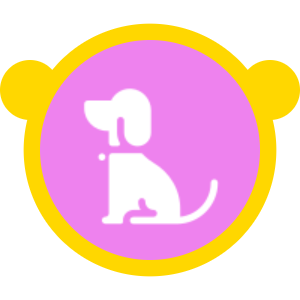
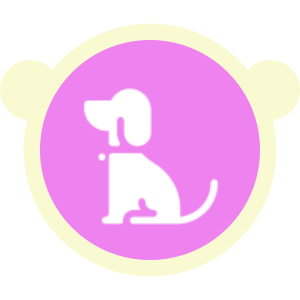
update

Changed region(s): [[0.0, 0.06, 1.0, 0.93]]

diff --git a/static/icon.html b/static/icon.html
@@ -52,10 +52,10 @@
 
             const canvasDefault = document.getElementById(id);
             const ctxDefault = canvasDefault.getContext('2d');
-            drawDefault(ctxDefault, borderFill, iconFill, iconFilePath);
+            drawDefault(ctxDefault, '#FAFAD2', iconFill, iconFilePath);
             const canvasSet = document.getElementById(id + 'Set');
             const ctxSet = canvasSet.getContext('2d');
-            drawSet(ctxSet, borderFill, iconFill, iconFilePath);
+            drawSet(ctxSet, '#FFD700', iconFill, iconFilePath);
         }
 
         drawIcon('d1', '#FFD700', '#98D98E', '/Users/tide/mycode/dog-map/static/png/todo/1.png');

diff --git a/pages/map/map.js b/pages/map/map.js
@@ -5,7 +5,7 @@ const geolib = require('geolib');
 import { sendRequest, sendRequestNoAuth } from '../../utils/util.js';
 
 const markerIconSizeDefault = "35px";
-const markerIconSizeSet = "45px";
+const markerIconSizeSet = "55px";
 class PoiMarker {
     constructor(id, latitude, longitude, title, icon) {
         this.id = id;
